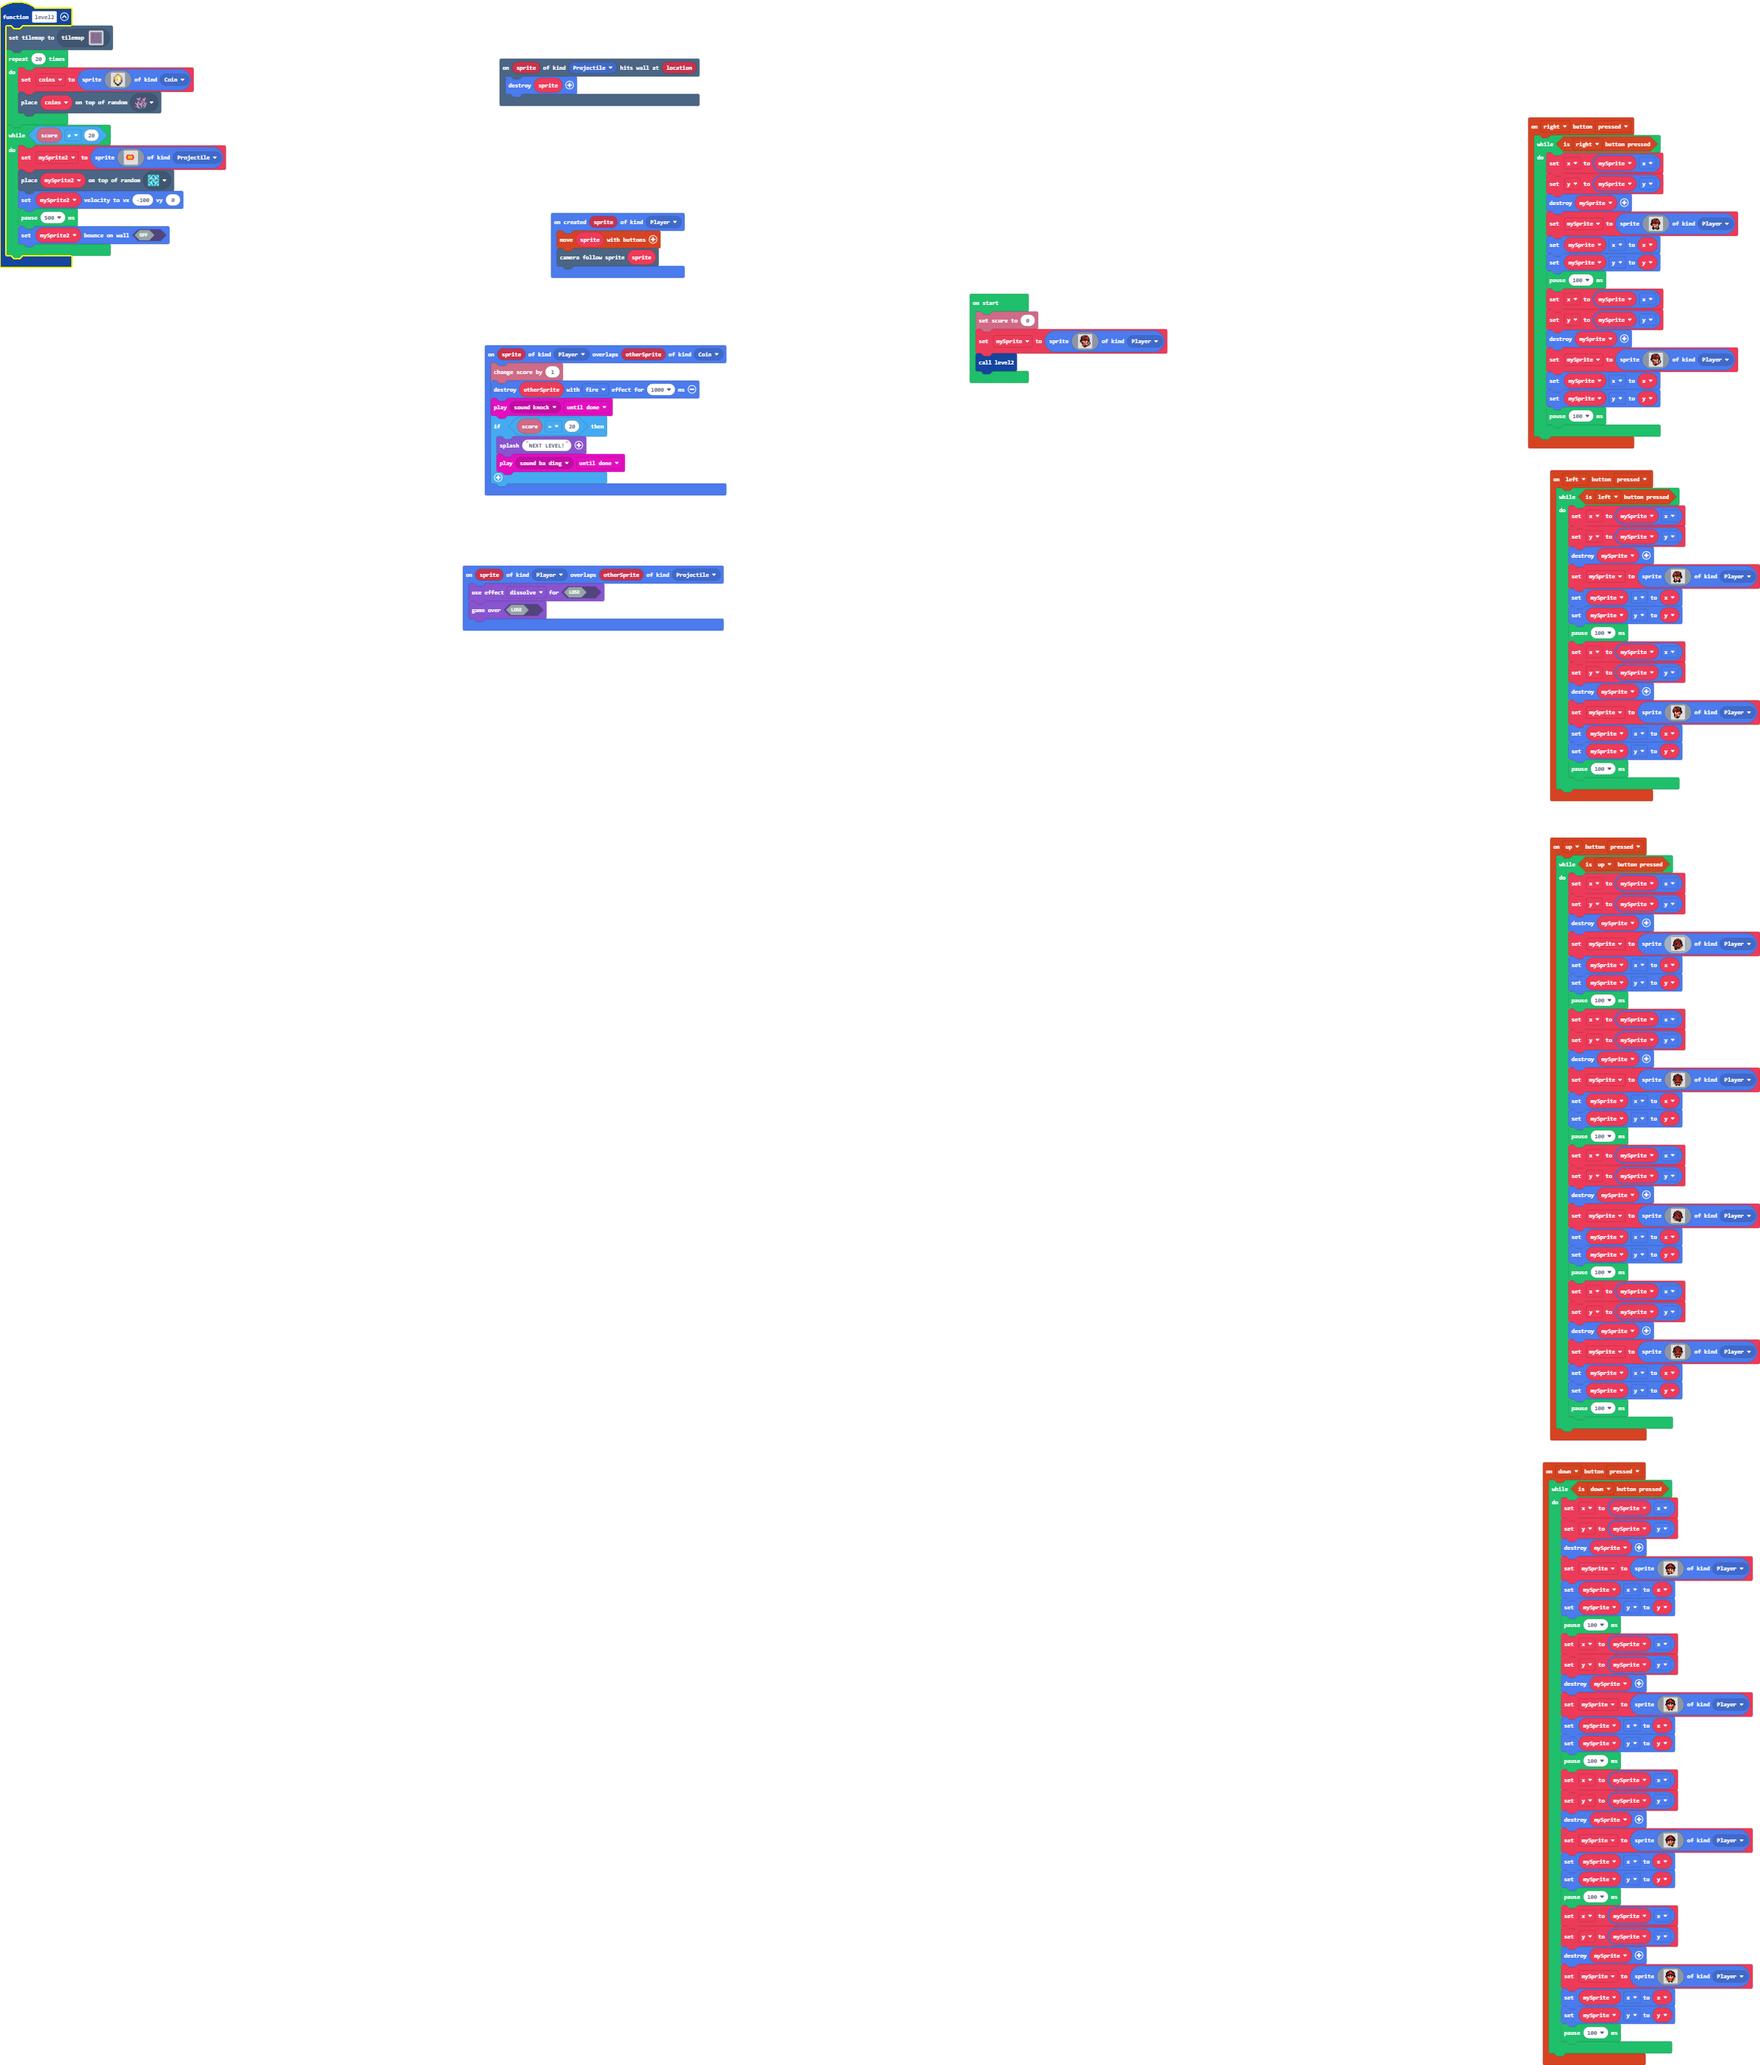
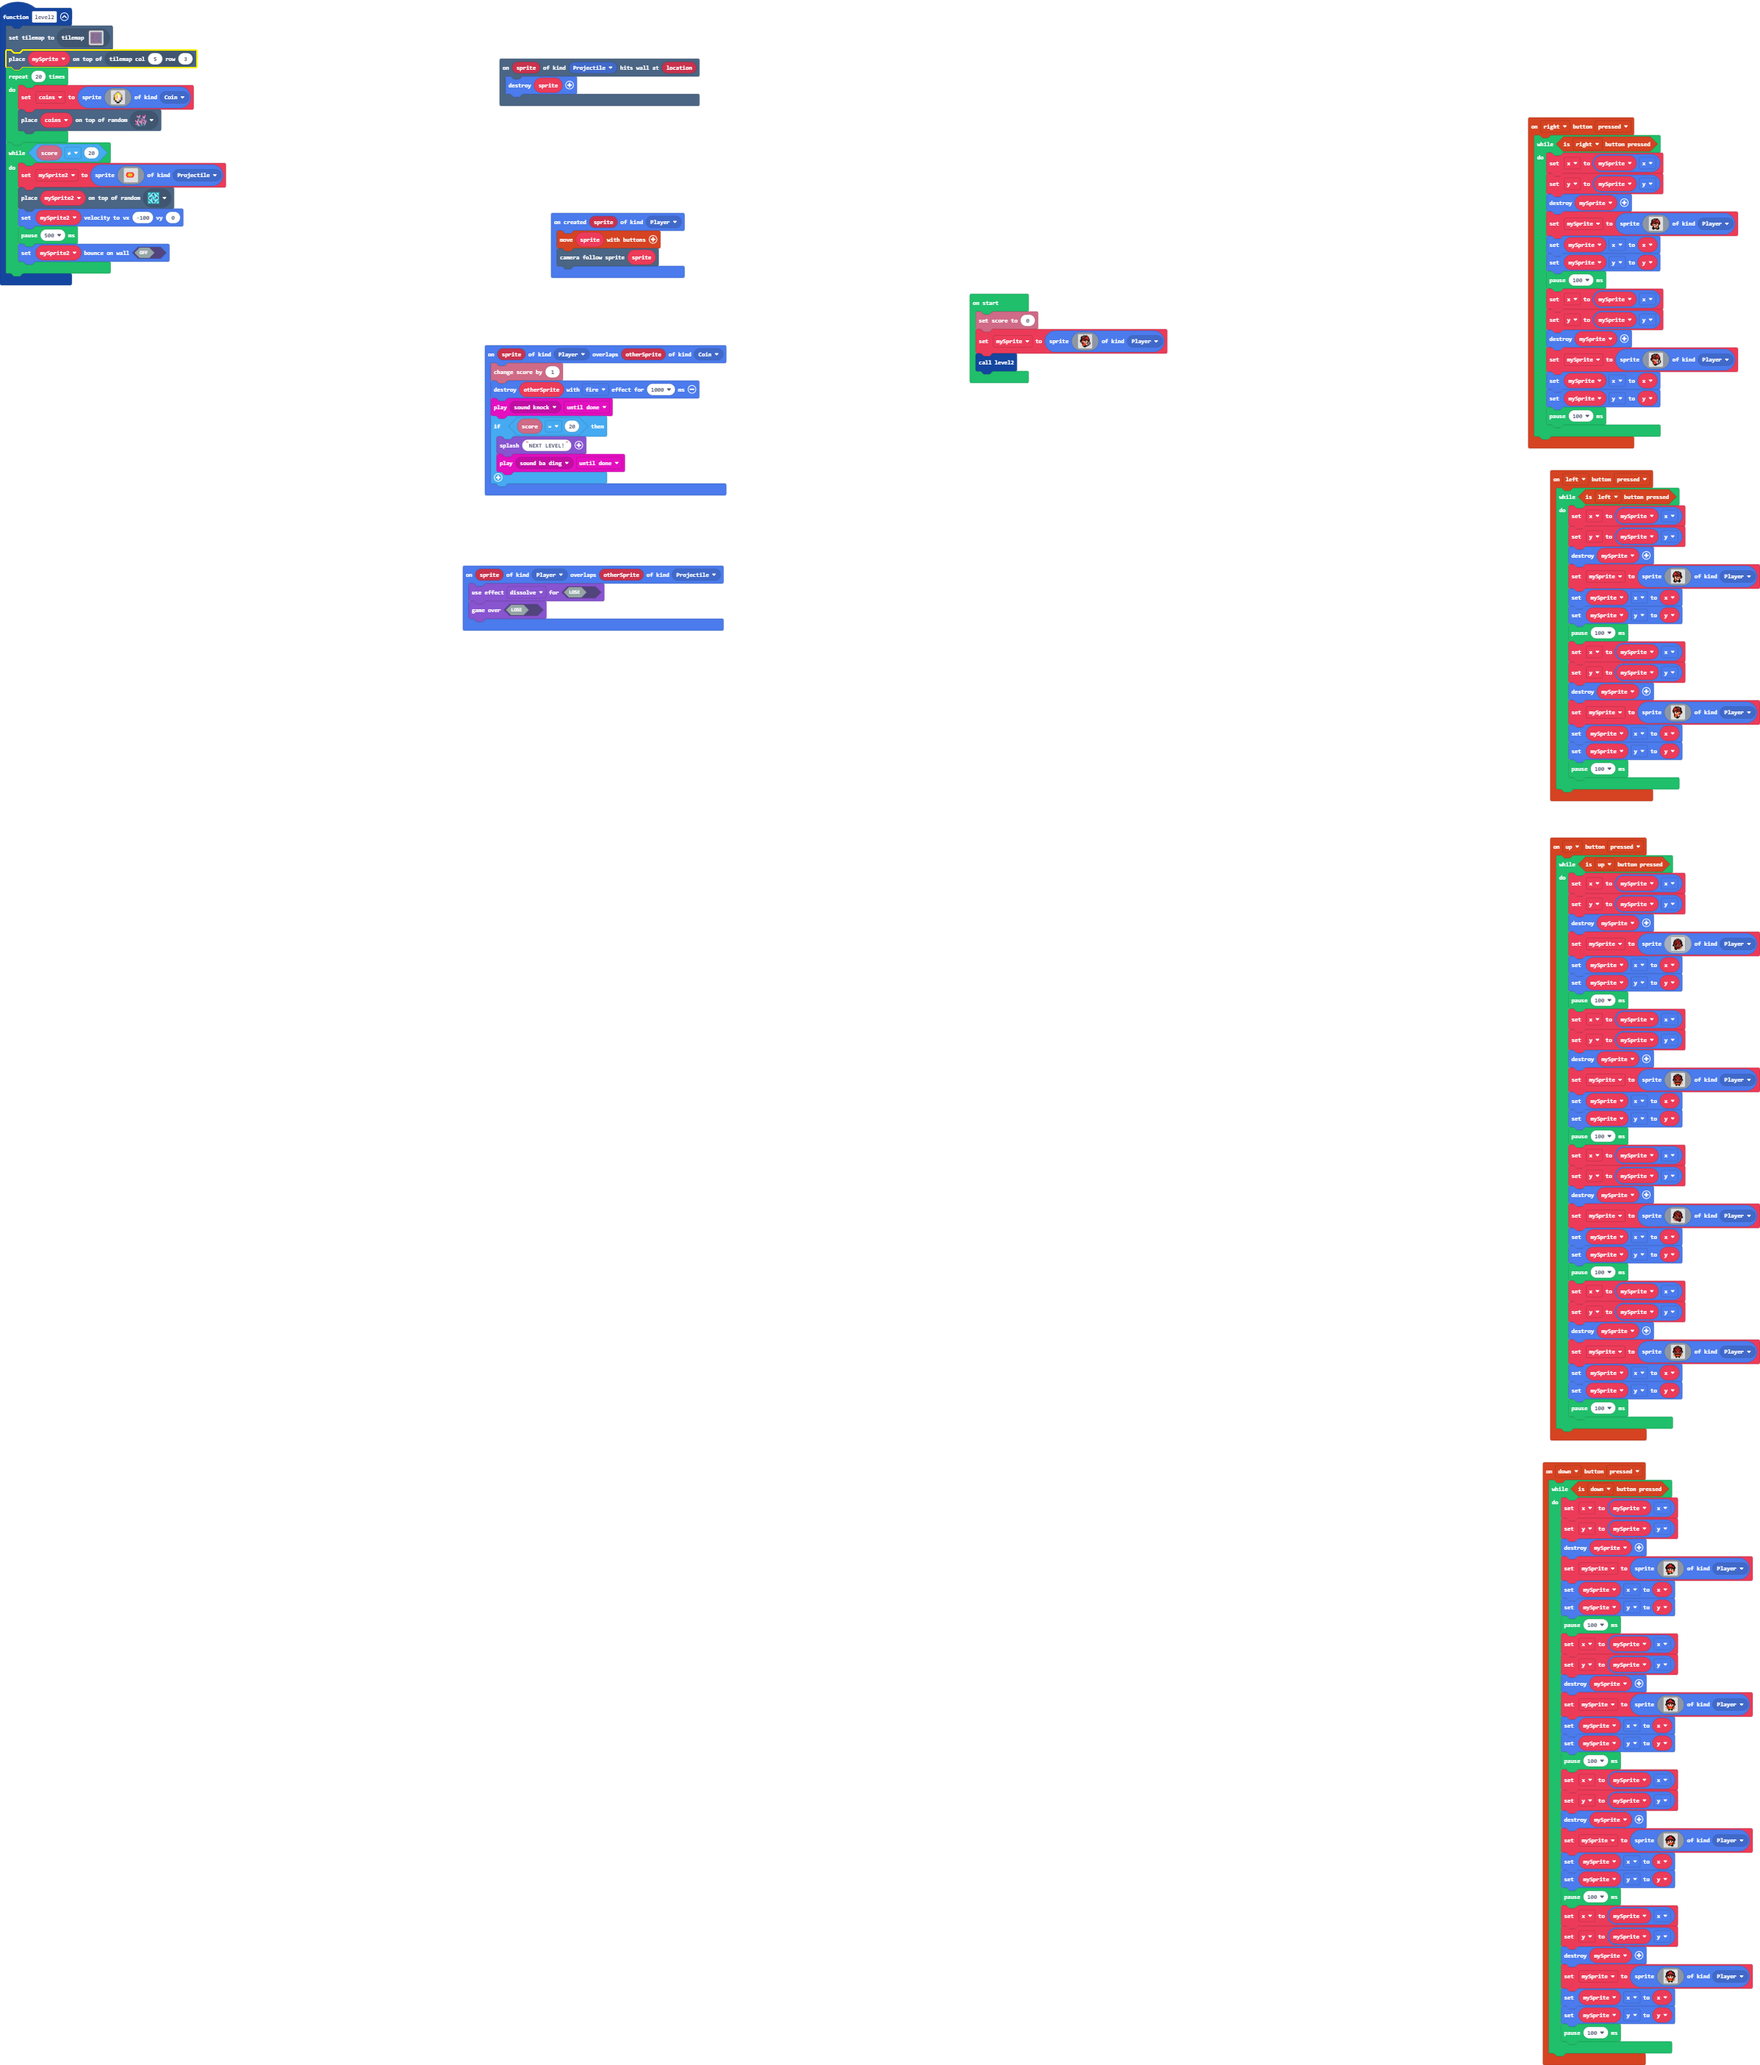
Update main.blocks, main.ts

Changed region(s): [[0.0, 0.0, 0.1236, 0.1548]]

diff --git a/main.ts b/main.ts
@@ -165,6 +165,7 @@ controller.left.onEvent(ControllerButtonEvent.Pressed, function () {
 })
 function level2 () {
     tiles.setCurrentTilemap(tilemap`level6`)
+    tiles.placeOnTile(mySprite, tiles.getTileLocation(5, 3))
     for (let index = 0; index < 20; index++) {
         coins = sprites.create(img`
             . . . b b . . . 
